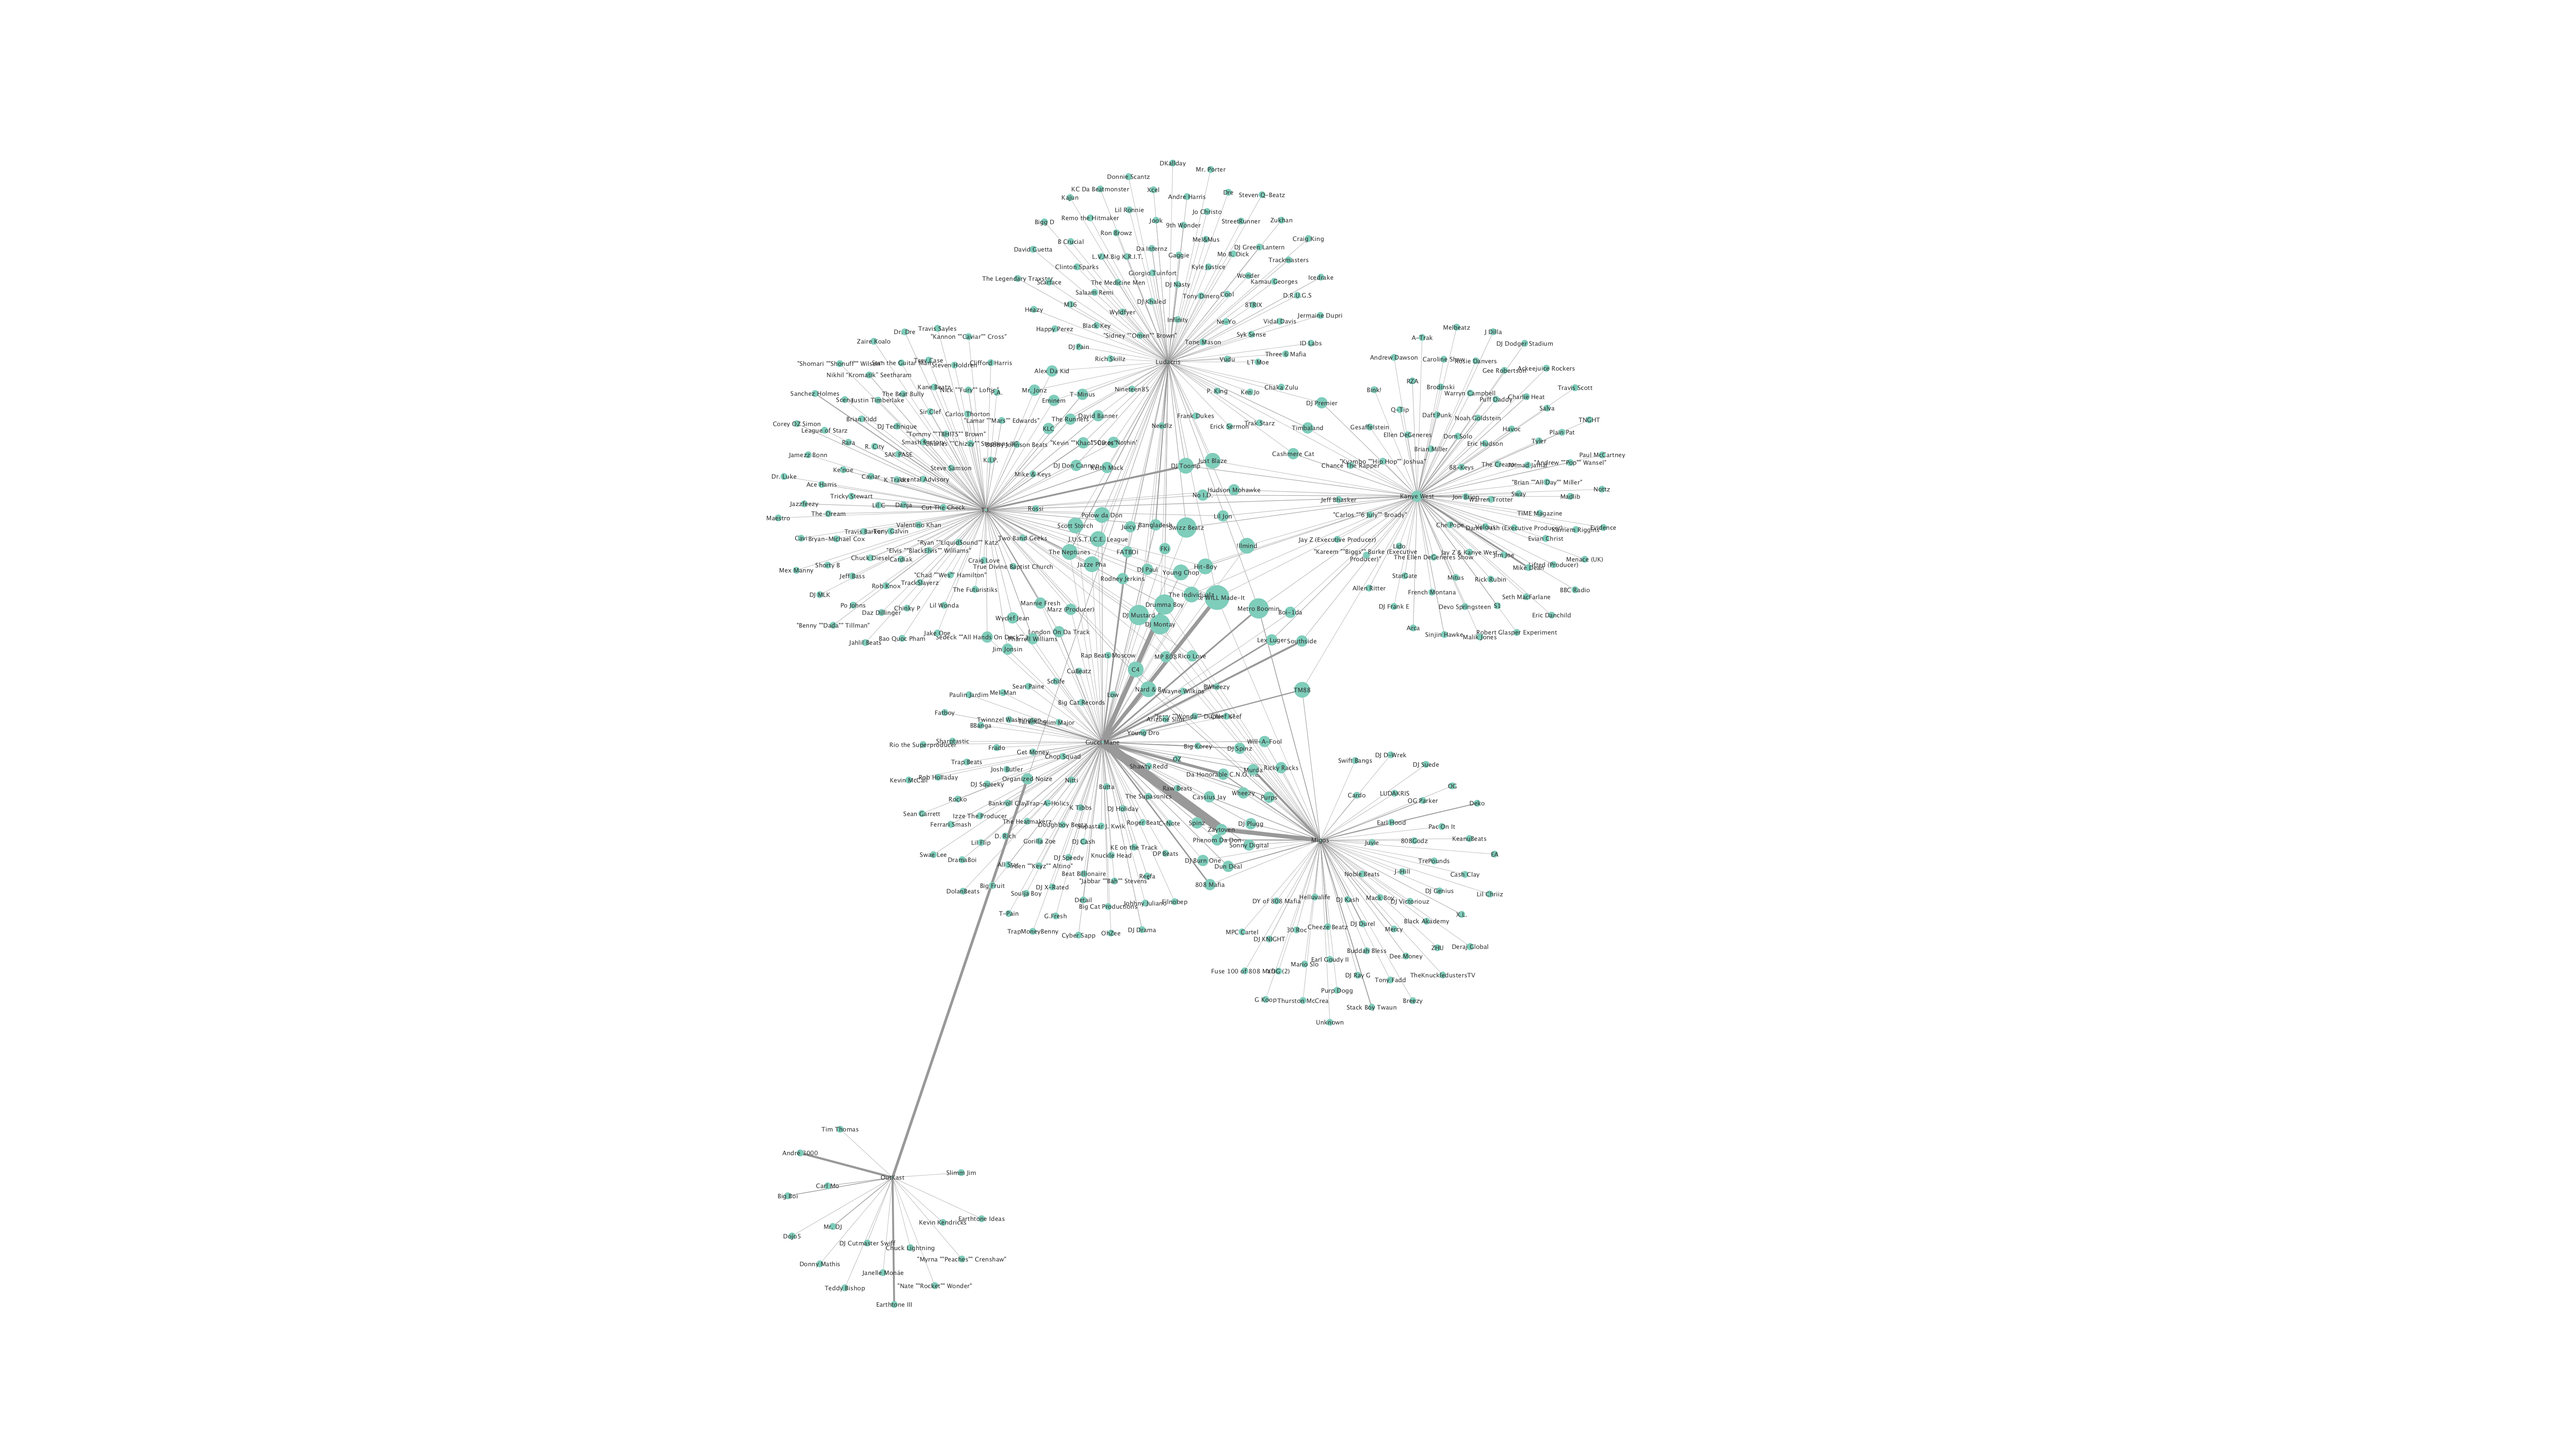
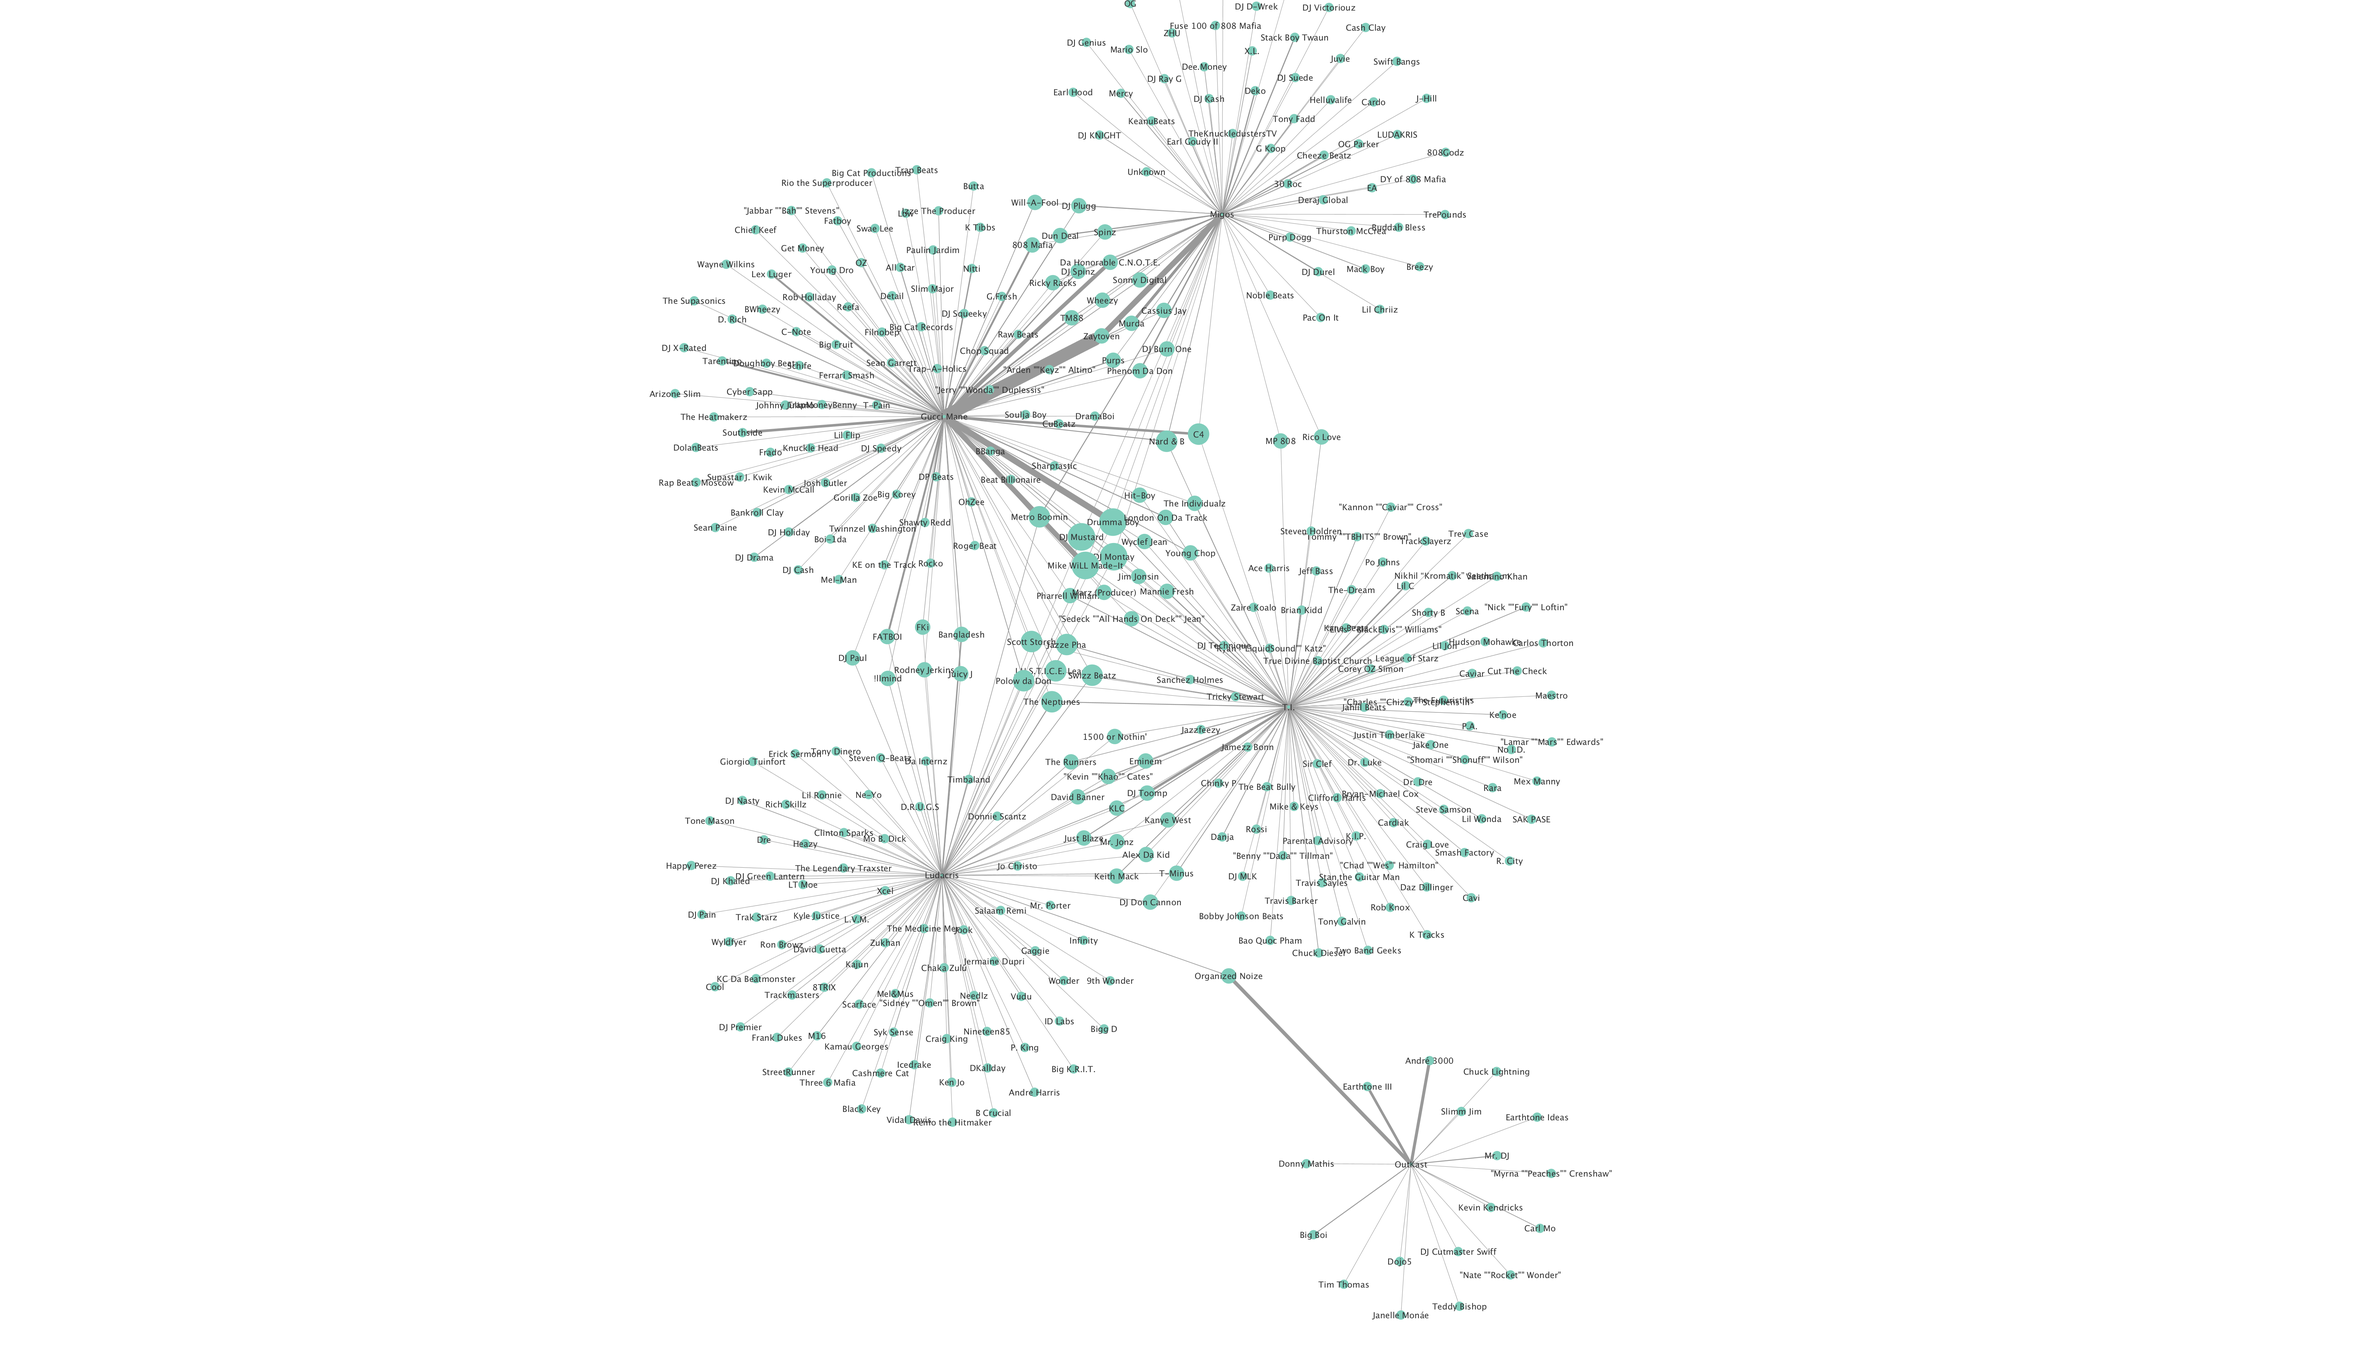
removed kanye since he is CHI

Changed region(s): [[0.2804, 0.0, 0.6542, 0.8999], [0.5608, 0.8068, 0.6542, 0.8689]]

diff --git a/graphs/atlanta/index.html b/graphs/atlanta/index.html
@@ -41,7 +41,6 @@ hip hop artists from Atlanta and their producers.</p>
 <ul>
   <li><a href="https://en.wikipedia.org/wiki/Ludacris">Ludacris</a></li>
   <li><a href="https://en.wikipedia.org/wiki/T.I.">T.I.</a></li>
-  <li><a href="https://en.wikipedia.org/wiki/Kanye_West">Kanye West</a></li>
   <li><a href="https://en.wikipedia.org/wiki/Gucci_Mane">Gucci Mane</a></li>
   <li><a href="https://en.wikipedia.org/wiki/Migos">Migos</a></li>
   <li><a href="https://en.wikipedia.org/wiki/Outkast">OutKast</a></li>
